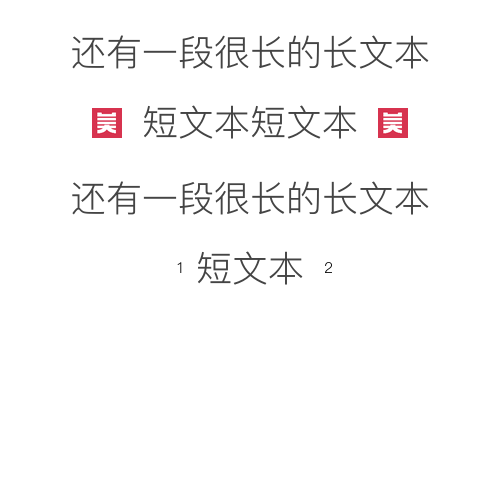
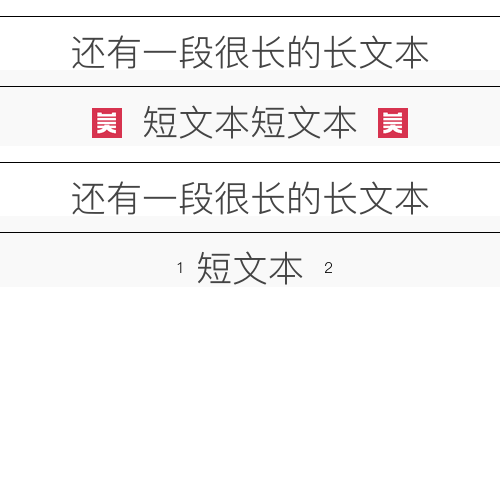
删除不必要的绘制

diff --git a/examples/example2/example.html b/examples/example2/example.html
@@ -6,10 +6,10 @@
             height:500px;
             font-family:'PingFang.ttf';
             font-size: 15px;
-            background-color:#ffffff;
+
         }
         .content {
-
+            background-color:#F9F9F9;
         }
         .name {
             color:#444444;
@@ -18,6 +18,7 @@
             text-align: center;
             width: auto;
             position: relative;
+            border-top:1px solid #000000;
         }
         .icon1{
             position: absolute;

diff --git a/dom2image.go b/dom2image.go
@@ -77,7 +77,7 @@ func drawChildren(dst *image.RGBA, pStyle *TagStyle, children []*Dom) {
 
 				imgData := d.TagData.(ImageData)
 				draw.Draw(dst, dst.Bounds().Add(image.Pt(x, y)), imgData.Img, image.ZP, draw.Over)
-				drawBoxRadius(dst, d.Container, calcStyle, pStyle)
+				//drawBoxRadius(dst, d.Container, calcStyle, pStyle)
 			default:
 				box := d.Container
 				if calcStyle.BackgroundColor != "" {
@@ -89,7 +89,7 @@ func drawChildren(dst *image.RGBA, pStyle *TagStyle, children []*Dom) {
 					}
 				}
 
-				drawBoxRadius(dst, box, calcStyle, pStyle)
+				//drawBoxRadius(dst, box, calcStyle, pStyle)
 
 				borderTopRadius := getIntSize(calcStyle.BorderRadius.Top)
 				borderRightRadius := getIntSize(calcStyle.BorderRadius.Right)
